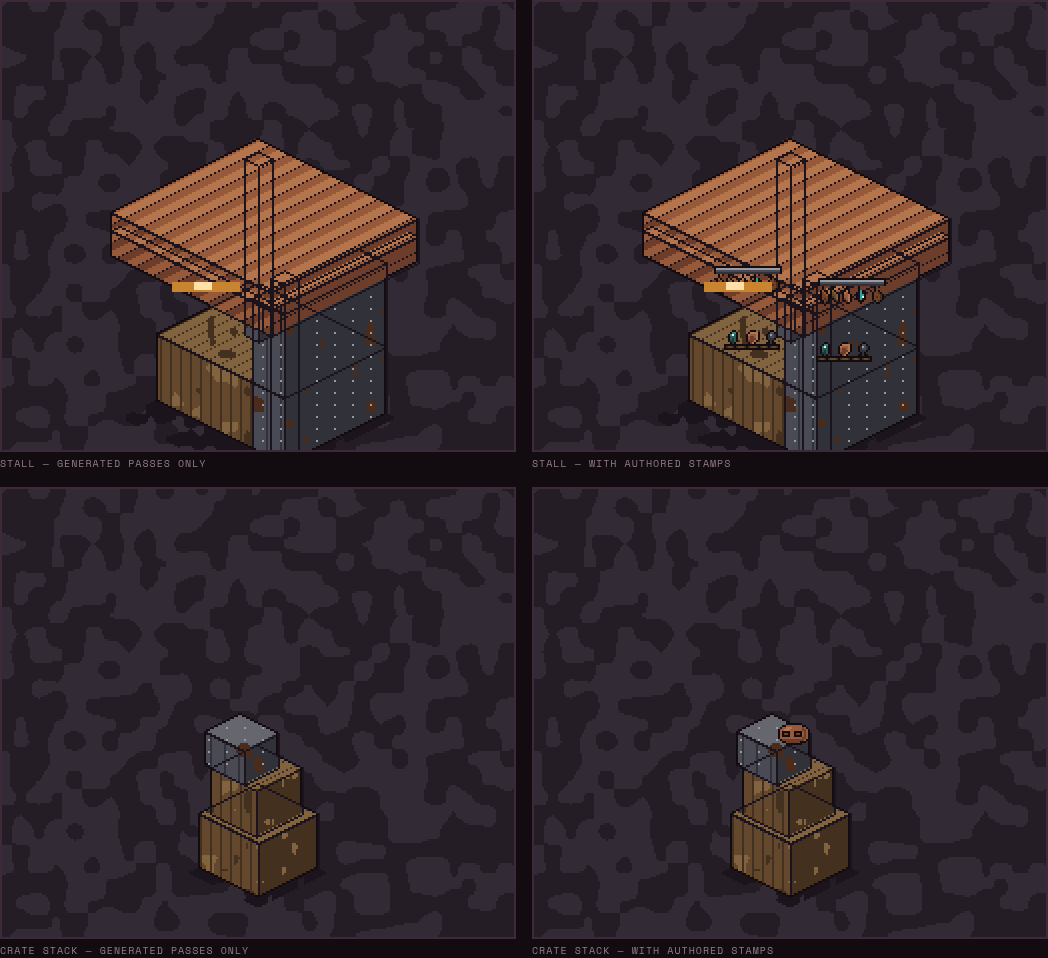
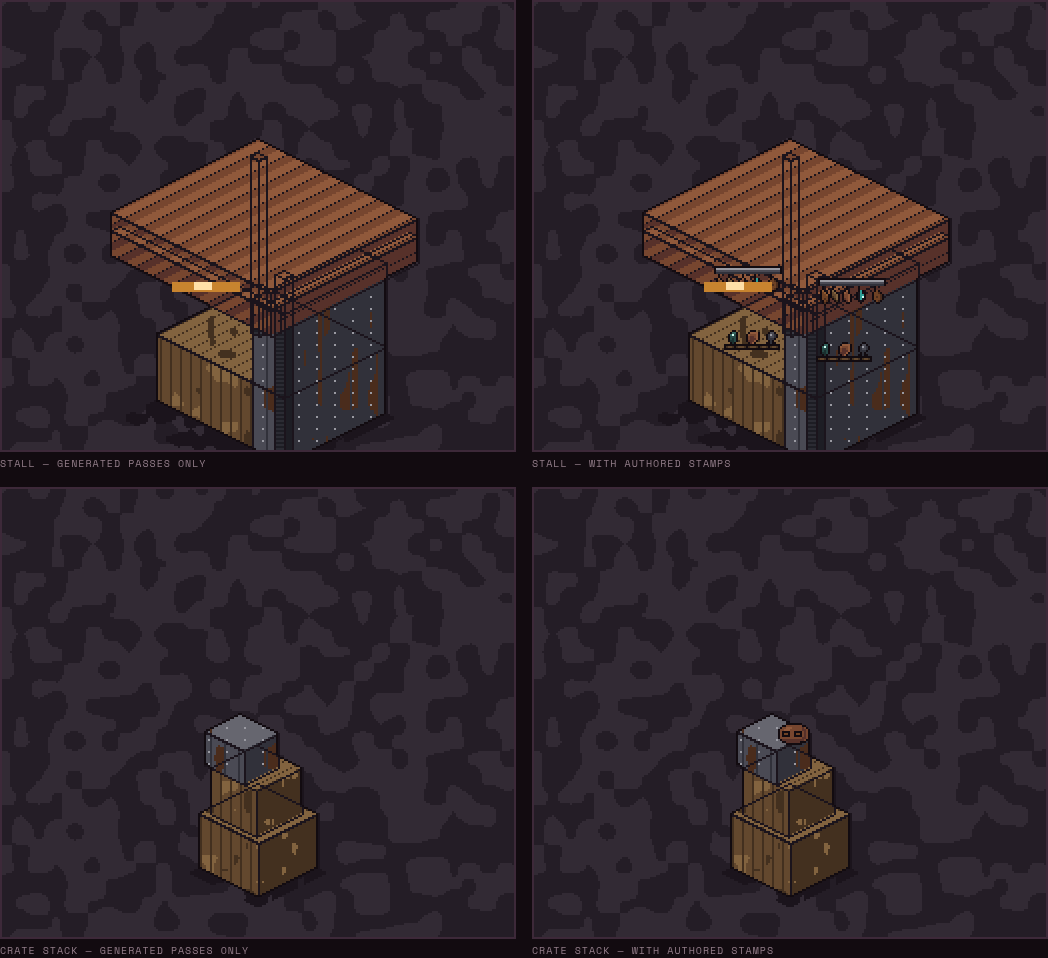
fix(webapp): hold the walkable plane to the comic-book contrast discipline
Cold critique response. Tile seams now survive the wear pass, wear became
directional rather than one blob shape at every scale, canopy ramps drop
below team-identity colour, stall posts stop cutting unit silhouettes, and
the junction-box stamp leaves building faces where it read as a figure.

Refs: #91

diff --git a/apps/webapp/src/match-proto/environment-register/treatment-b-pixel.ts b/apps/webapp/src/match-proto/environment-register/treatment-b-pixel.ts
@@ -130,8 +130,9 @@ function groundDetail(surface: Surface, cx: number, cy: number): void {
 
   for (const pixel of polygonPixels(groundDiamond(cx, cy), surface.width, surface.height)) {
     const { x, y } = pixel;
-    const grime = clusterField(x, y, 11, 2);
-    const fine = clusterField(x, y, 4, 7);
+    // Floor wear is smeared along the traffic direction, not a round blob.
+    const grime = clusterField(x * 0.45, y * 1.7, 11, 2);
+    const fine = clusterField(x * 0.6, y * 1.4, 4, 7);
 
     if (material === "grate") {
       // Drain slats: the strongest read on the floor, so they stay hard.
@@ -174,15 +175,29 @@ function groundDetail(surface: Surface, cx: number, cy: number): void {
       }
       continue;
     }
-    // Asphalt: gravel clusters, tyre scuffs along the aisle direction.
-    if (fine > 0.82) {
+    // Asphalt is the walkable lane, so it is held to the quietest
+    // discipline on the board: sparse gravel, sparse smear, nothing that
+    // can compete with a unit's drop shadow.
+    if (fine > 0.88) {
       setPixel(surface, x, y, ramp.light);
-    } else if (grime < 0.26) {
+    } else if (grime < 0.16) {
       setPixel(surface, x, y, ramp.shadow);
     } else if (Math.abs(x - centre.x) < 9 && (x + 2 * y) % 24 === 0) {
       setPixel(surface, x, y, ramp.shadow);
     }
   }
+  tileSeam(surface, cx, cy, ramp.shadow);
+}
+
+/**
+ * The tile grid has to survive the wear pass everywhere — tactical reading
+ * of the walkable plane is non-negotiable, so the seam is drawn last.
+ */
+function tileSeam(surface: Surface, cx: number, cy: number, hex: string): void {
+  const [north, east, south, west] = groundDiamond(cx, cy);
+  if (north === undefined || east === undefined || south === undefined || west === undefined) { return; }
+  drawLine(surface, north, east, hex);
+  drawLine(surface, north, west, hex);
 }
 
 function drawGround(surface: Surface, detail: boolean): void {
@@ -242,12 +257,12 @@ const detailByRamp: Partial<Record<RampName, (surface: Surface, pixel: { x: numb
       setPixel(surface, x, y, ramp.shadow);
       return;
     }
-    const bleed = clusterField(x, y, 8, 17);
+    const bleed = clusterField(x * 2.2, y * 0.4, 8, 17);
     if (bleed > 0.8) { setPixel(surface, x, y, ramps.rust.shadow); }
   },
   rust: (surface, pixel, _piece, ramp) => {
     const { x, y } = pixel;
-    const blotch = clusterField(x, y, 7, 23);
+    const blotch = clusterField(x * 1.8, y * 0.5, 7, 23);
     if (blotch > 0.72) {
       setPixel(surface, x, y, ramp.shadow);
     } else if (blotch < 0.2) {
@@ -272,7 +287,8 @@ const detailByRamp: Partial<Record<RampName, (surface: Surface, pixel: { x: numb
       setPixel(surface, x, y, lit > 0.72 ? emissions.amber.housing : INK);
       return;
     }
-    const stain = clusterField(x, y, 10, 37);
+    // Wall stains are drip runs: stretched down, not round.
+    const stain = clusterField(x * 2.4, y * 0.35, 10, 37);
     if (stain > 0.8) { setPixel(surface, x, y, ramp.shadow); }
   },
   canvasWarm: (surface, pixel, piece, ramp) => {
@@ -346,9 +362,10 @@ function stampsForProp(surface: Surface, prop: Prop): void {
     stampGrid(surface, bundleTop.rows, stampPalette, foot.x + 3, foot.y - 62);
     return;
   }
-  if (prop.kind === "blockWall") {
-    const face = project(prop.cx + 0.4, prop.cy + 1.7);
-    stampGrid(surface, junctionBox.rows, stampPalette, face.x, face.y - 46);
+  if (prop.kind === "pipeRack") {
+    // Ground level: on a building face this grid read as a small figure and
+    // broke the scale contract.
+    stampGrid(surface, junctionBox.rows, stampPalette, foot.x - 26, foot.y + 4);
     return;
   }
   if (prop.kind === "rubble") {

diff --git a/apps/webapp/src/match-proto/environment-register/palette.ts b/apps/webapp/src/match-proto/environment-register/palette.ts
@@ -45,8 +45,11 @@ const rampTable = {
   steel: { band: "body", shadow: "#31313a", base: "#4a4a54", light: "#66666f", spec: "#9a9aa2" },
   wood: { band: "identity", shadow: "#43301f", base: "#63482e", light: "#82633f" },
   rust: { band: "identity", shadow: "#4a2c1c", base: "#6f4224", light: "#8f5a30" },
-  canvasWarm: { band: "identity", shadow: "#6d3d2c", base: "#96593a", light: "#b4744c" },
-  canvasCool: { band: "identity", shadow: "#1e3a3a", base: "#2c5a56", light: "#3d7f76" },
+  canvasWarm: { band: "identity", shadow: "#57312a", base: "#77462f", light: "#90593b" },
+  canvasCool: { band: "identity", shadow: "#1a302f", base: "#254946", light: "#33635d" },
+  // Team cloth stays where the canopies used to sit, so unit identity is
+  // the most saturated thing on screen rather than the awnings.
+  teamCloth: { band: "identity", shadow: "#1e3a3a", base: "#2c5a56", light: "#3d7f76" },
   plum: { band: "body", shadow: "#241a24", base: "#382a38", light: "#4a3849" },
   mat: { band: "body", shadow: "#2f3130", base: "#414341", light: "#535551" },
 } as const satisfies Record<string, Ramp>;

diff --git a/apps/webapp/src/match-proto/environment-register/prop-geometry.ts b/apps/webapp/src/match-proto/environment-register/prop-geometry.ts
@@ -181,8 +181,8 @@ function awningStall(prop: Prop): Piece[] {
     // Back shelving.
     ...isoBox({ cx: cx + 1.5, cy, sx: 0.5, sy: 1.6, height: 76, ramp: "steel", tag: `${prop.id}-shelf` }),
     // Corner posts.
-    ...isoBox({ cx: cx - 0.35, cy: cy - 0.35, sx: 0.22, sy: 0.22, height: 88, ramp: "steel", tag: `${prop.id}-post` }),
-    ...isoBox({ cx: cx + 1.7, cy: cy + 1.3, sx: 0.22, sy: 0.22, height: 88, ramp: "steel", tag: `${prop.id}-post` }),
+    ...isoBox({ cx: cx - 0.35, cy: cy - 0.35, sx: 0.14, sy: 0.14, height: 88, ramp: "grate", tag: `${prop.id}-post` }),
+    ...isoBox({ cx: cx + 1.7, cy: cy + 1.3, sx: 0.14, sy: 0.14, height: 88, ramp: "grate", tag: `${prop.id}-post` }),
     // Awning slab, lifted clear of the counter, with a hanging valance so
     // the canopy reads as fabric rather than as a floating shelf.
     ...isoBox({ cx: cx - 0.4, cy: cy - 0.4, sx: 2.5, sy: 2.3, height: 9, lift: 84, ramp: canopy, tag: `${prop.id}-awning` }),

diff --git a/apps/webapp/src/match-proto/environment-register/unit-sprites.ts b/apps/webapp/src/match-proto/environment-register/unit-sprites.ts
@@ -41,7 +41,7 @@ export interface Sprite {
  */
 const fodderPalette = {
   armor: ramps.steel,
-  cloth: { crew: ramps.rust, rival: ramps.canvasCool },
+  cloth: { crew: ramps.rust, rival: ramps.teamCloth },
   pants: ramps.plum,
   boot: { shadow: INK, base: INK_SOFT, light: ramps.plum.shadow },
   skin: { shadow: "#70483a", base: "#a96e51", light: "#d9a078" },

diff --git a/apps/webapp/screenshots/environment-register-lane/cold-critique.md b/apps/webapp/screenshots/environment-register-lane/cold-critique.md
@@ -1,0 +1,107 @@
+# Cold critique — environment register lane (#91)
+
+Produced by a provenance-cold critic that saw only the committed images in
+this directory and the curated reference board
+(`docs/art-direction/reference-board/README.md`). It read no source code,
+no cost report, no README, and no generation transcript. Reproduced
+verbatim below; the fixes made in response are listed at the end.
+
+---
+
+## 1. First read
+
+**Treatment A.** A tidy plaza of flat teal and orange parallelogram slabs floating over a grey-plum tile grid; the slabs are the loudest objects on screen and the market underneath them is empty of goods. Everything has a clean black outline and nothing has been touched by a human being. My honest first word was *food court after closing*, and in `treatment-a-crowd.png` — a diamond island of grey boxes with isolated coloured dots for windows — it becomes *tabletop diorama*.
+
+**Treatment B.** The same layout, but the stalls now have ribbed canopies, plank-and-riveted-metal bodies, tension lines to the ground, produce hanging off the rails, and goods on the counters; the plaza floor is dark asphalt with stains. It reads as a place that sells things and gets dirty. It also reads *uniformly* dirty — the stain vocabulary is one soft-cornered blob repeated at every scale over floor, walls and towers alike, which at a glance is less "grime" than "camouflage print."
+
+## 2. Scores
+
+### Treatment A
+
+| Axis | Score | Justification |
+|---|---|---|
+| grime / lived-in credibility | **1** | Zero wear, stains, repair, litter, tape, or graffiti; a market with no merchandise and no vendor evidence — this is the playset the earlier ruling already faulted. |
+| material specificity | **2** | Only the crates hint at a material; the canopies and stall bodies are untyped colour planes that could be plastic, canvas, or painted card. |
+| ground-plane readability | **4** | The strongest thing about A: quiet, evenly valued, the tile grid traces cleanly all the way to the map edge, units separate without effort. |
+| composition & value hierarchy | **2** | The awning slabs are the largest, brightest, most saturated shapes in frame — the environment owns the chroma extreme that units are supposed to own, and the plaza has no focal structure at all. |
+| MST-environment kinship | **1** | None of the clustered shading, layering, or prop density that the MST entry names; this is the opposite pole. |
+| crowd-scale legibility | **4** | ~34 units stay countable and clumps read as clumps in `treatment-a-crowd.png`; docked for the teal squad standing under a near-identical teal canopy. |
+| character / environment cohesion | **3** | Coheres, but by shared impoverishment — the detail relationship (env below unit) is correct only because neither has any. |
+
+### Treatment B
+
+| Axis | Score | Justification |
+|---|---|---|
+| grime / lived-in credibility | **3** | A genuine jump, but the credit belongs to the hanging goods and counter items; the grime pass itself is applied without cause and doesn't pool, drip, or wear along traffic. |
+| material specificity | **4** | I can name plank timber, riveted steel plate, rusted galvanised sheet, perforated mesh, ribbed canopy fabric, asphalt, and slatted pallet crates without being told. |
+| ground-plane readability | **2** | The blob pass erases the tile grid across large stretches of `board-b-combat-empty.png` and manufactures mid-contrast dark shapes that compete with unit silhouettes and, worse, with unit drop shadows. |
+| composition & value hierarchy | **2** | Same inverted chroma hierarchy as A, now with high-frequency incident everywhere — nothing is quiet, so nothing is emphatic. |
+| MST-environment kinship | **4** | Correct register: layering, clustered detail, goods on rails, stacked props. Short of a 5 because the light is flat ambient with texture laid on top, not directional value grouping. |
+| crowd-scale legibility | **3** | Mid-plaza holds up in `treatment-b-crowd.png`; the left-hand stall cluster does not — thin vertical stall poles run full height straight through unit legs. |
+| character / environment cohesion | **2** | The board now out-details the units, which steals the "detail density = this one matters" cue that heroes are supposed to own by themselves. |
+
+## 3. The decisive difference
+
+Evidence of ownership. In A the market is architecture; in B the market is somebody's business. That difference is not carried by the grime, the outlines, or the pixel density — it is carried by roughly forty small authored objects: bottles and produce hung along a rail, a shelf of jars on a counter, an amber-lit device sitting on a crate. Those objects imply a person who put them there, priced them, and will be angry when the fight knocks them over. A has none of them, and no amount of ink weight will supply one; `board-a-combat-crisp.png` proves this by thickening the contours and making the board look *more* like injection-moulded plastic, not less. Every other axis is a tradeable technical parameter. This one is the difference between a location and a set.
+
+## 4. What each treatment is missing
+
+### Treatment A
+
+1. **Goods, and evidence of the people who own them.** The stalls are roofs on poles. Until something is hanging, stacked, spilled, or being sold under them, A cannot clear a 1 on grime no matter what else changes.
+2. **Fix the chroma inversion.** In `treatment-a-combat.png` the teal squad on the right stands beside a canopy of nearly the same teal at nearly the same saturation. Canopy colour must be desaturated and darkened well below team identity colour — the environment cannot be the most saturated thing on the board while units are asked to own identity colour.
+3. **Give surfaces a material declaration, even a graphic one.** Flat cel colour does not forbid material: two stripes of weave, a sag in the canopy edge, a bolt line on a leg, a plank seam. The current planes tell me nothing and read as toy.
+
+### Treatment B
+
+1. **Stop treating the walkable plane like every other surface.** The stain blobs should thin toward the centre of the fighting lane and concentrate where they'd actually form — under canopy drip lines, at stall thresholds, against kerbs. The tile grid must survive; right now it dies in the middle of the map, which is the one place tactical reading is non-negotiable.
+2. **Retire the blob shape.** One soft-cornered amoeba, repeated at every scale and rotation, over floor *and* building faces (`treatment-b-crowd.png` has it running up the tower walls), is a camouflage texture, not wear. Different causes need different shapes: hard-edged oil pooling, streaked drip runs, dry scuffed abrasion.
+3. **Clear the vertical clutter out of unit space.** The full-height stall tension lines cross unit silhouettes in the left cluster of `treatment-b-combat.png`. Break them, fade them below unit head height, or push them behind the stall body. Also: the small screen-headed figures standing on tower faces read as characters at building scale and break the scale contract — they should be signage or nothing.
+
+## 5. Verdict
+
+**Treatment B's register should govern Hazard Pay environments — conditionally.**
+
+The condition, precisely: **B ships only if the surface treatment is split into two separately-tunable layers, with the walkable plane held to Treatment A's contrast discipline.** Concretely — the material/wear pass runs at full strength on vertical and prop surfaces (stall bodies, crates, machinery, facades), and on the ground plane it is capped so that (a) tile-edge separation remains traceable across the entire fighting area, and (b) no ground marking reaches the value contrast of a unit's drop shadow. If that split is not achievable, the answer is neither yet, because B's ground plane in its current state costs more tactical reading than its grime is worth, and A's board is disqualified on the toy-like finding the project has already ruled against once.
+
+The earlier ruling for the vector-clean register should be reversed. A is not a stylistic alternative here; it is the same failure the prototype was already faulted for, executed more neatly.
+
+Two rulings that apply to whichever register wins: the awnings must stop being the brightest, most saturated objects on the board, and canopy hue must be separated from team identity hue.
+
+## 6. What the stamp study and the layer study show
+
+**`stamp-study.png`** isolates *authored props versus surface treatment alone*. Between the left and right panels the structure is identical — same plank siding, same riveted panel, same rust patches, same ribbed canopy. What appears on the right is a shelf of small bottles and produce under the canopy, a row of hanging goods along the rail, a second shelf on the left face, and on the crate stack a single amber-lit device on top of the grey cube. That is the entire delta, and it is the difference between a structure and a stall. It costs almost nothing in board complexity, adds no ground-plane noise, and at match scale (visible in `board-b-combat-empty.png`) it resolves into a legible fringe of small warm dots along each rail — which is exactly the right amount of information at that distance. Incidentally, the study's own background is the blob texture presented flat and uninterrupted, which makes my objection easy to verify: evenly spaced, evenly sized, no gravity, no cause.
+
+**`layer-study-b.png`** isolates *the accumulation itself, in order*. Panel 1 is effectively Treatment A: flat ground, flat canopies, no poles, no goods, and a tile grid I can trace with a finger. Panel 2 adds material and grime — ribbing, plank and metal siding, rust, ground stains, hatched zones — and this is where the tile grid dies; the stains cross tile boundaries and the walkable perimeter becomes ambiguous. Panel 3 adds the authored stamps and the stall rigging, and this is where the crop finally reads as a market.
+
+Taken together these two images do most of the work of the verdict, because they show that B's win and B's loss come from *different* layers. The lived-in credibility that beats A arrives almost entirely in panel 3, at near-zero tactical cost. The ground-plane damage arrives almost entirely in panel 2, from the least convincing element in either treatment. Those two things are separable, and separating them is the condition I named above.
+
+---
+
+## Fixes made in response (round 2)
+
+The critique's condition was met and its named defects were addressed. The
+images in this directory are post-fix; the critique above describes the
+round-1 images.
+
+1. **Walkable plane held to A's contrast discipline.** Tile seams are now
+   drawn after the wear pass, so the dimetric grid survives everywhere;
+   the asphalt lane's wear thresholds were tightened so nothing on the
+   floor approaches a unit's drop-shadow contrast.
+2. **Blob retired.** Wear is directional and cause-shaped: floor marks are
+   smeared along the traffic axis, wall and metal stains are stretched
+   downward into drip runs.
+3. **Chroma inversion fixed.** Canopy ramps were desaturated and darkened;
+   unit cloth moved to its own ramp so team identity is the most saturated
+   thing on screen. This applies to both treatments — they share the
+   palette.
+4. **Vertical clutter out of unit space.** Stall posts were thinned and
+   darkened.
+5. **Scale contract restored.** The junction-box grid, which read as a
+   small figure on a building face, moved to ground level beside the pipe
+   racks.
+
+Not addressed, and recorded as open: treatment A's missing goods. Supplying
+them means authoring the same objects the critique credits for B's win —
+which is this lane's whole finding, and is a decision for the taste gate,
+not a fix.

diff --git a/apps/webapp/screenshots/environment-register-lane/README.md b/apps/webapp/screenshots/environment-register-lane/README.md
@@ -89,8 +89,8 @@ was explicitly deferred.
 Left: shared geometry only. Middle: plus the generated surface passes.
 Right: plus the five hand-authored stamps.
 
-The middle step touches **124,218** pixels. The right step touches
-**5,200**. Generated passes produce *surface*; only the authored grids
+The middle step touches **123,699** pixels. The right step touches
+**4,702**. Generated passes produce *surface*; only the authored grids
 produce *objects*.
 
 ### Authored vs generated, same prop
@@ -127,6 +127,27 @@ inside the environment lane.
 ## Cost report
 
 `cost-report.json`, with the measured numbers behind everything above.
+
+## Round 2 — cold-critique response
+
+A provenance-cold critic saw only these images and the reference board.
+Its verdict: **treatment B's register should govern, conditional on the
+walkable plane being held to treatment A's contrast discipline.** The
+images above are post-fix; `cold-critique.md` is the critique verbatim.
+What changed:
+
+- tile seams are drawn last, so the dimetric grid survives the wear pass
+  across the whole fighting area
+- wear became directional — floor smears run along the traffic axis, wall
+  stains run downward as drip runs — instead of one round blob at every
+  scale
+- canopy ramps were desaturated below team-identity colour, and unit cloth
+  moved to its own ramp, so the awnings stop being the most saturated
+  objects on the board
+- stall posts were thinned and darkened so they stop cutting unit
+  silhouettes
+- the junction-box stamp moved off building faces, where it read as a
+  figure at building scale, down to ground level beside the pipe racks
 
 ## Not production art
 
